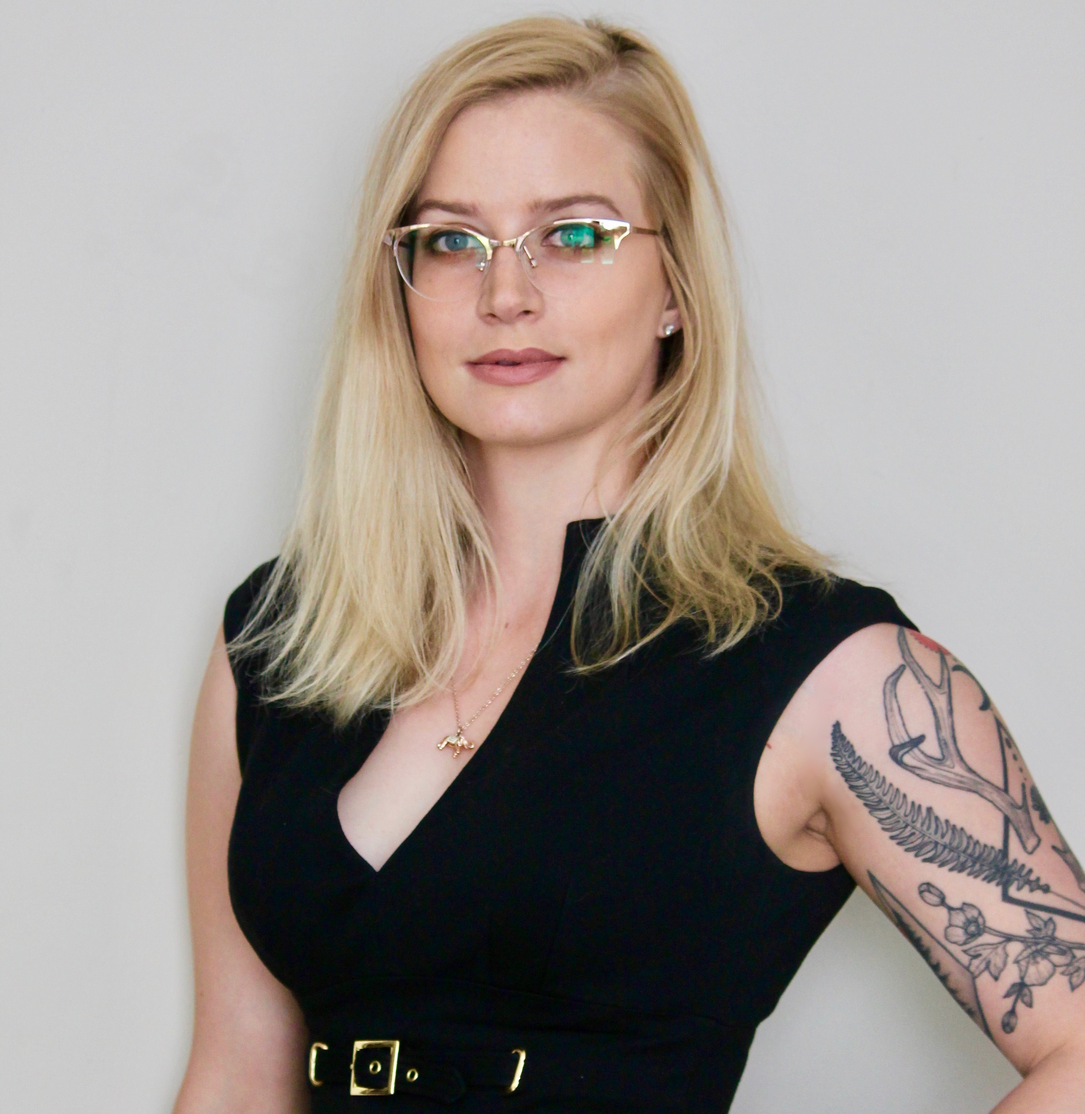
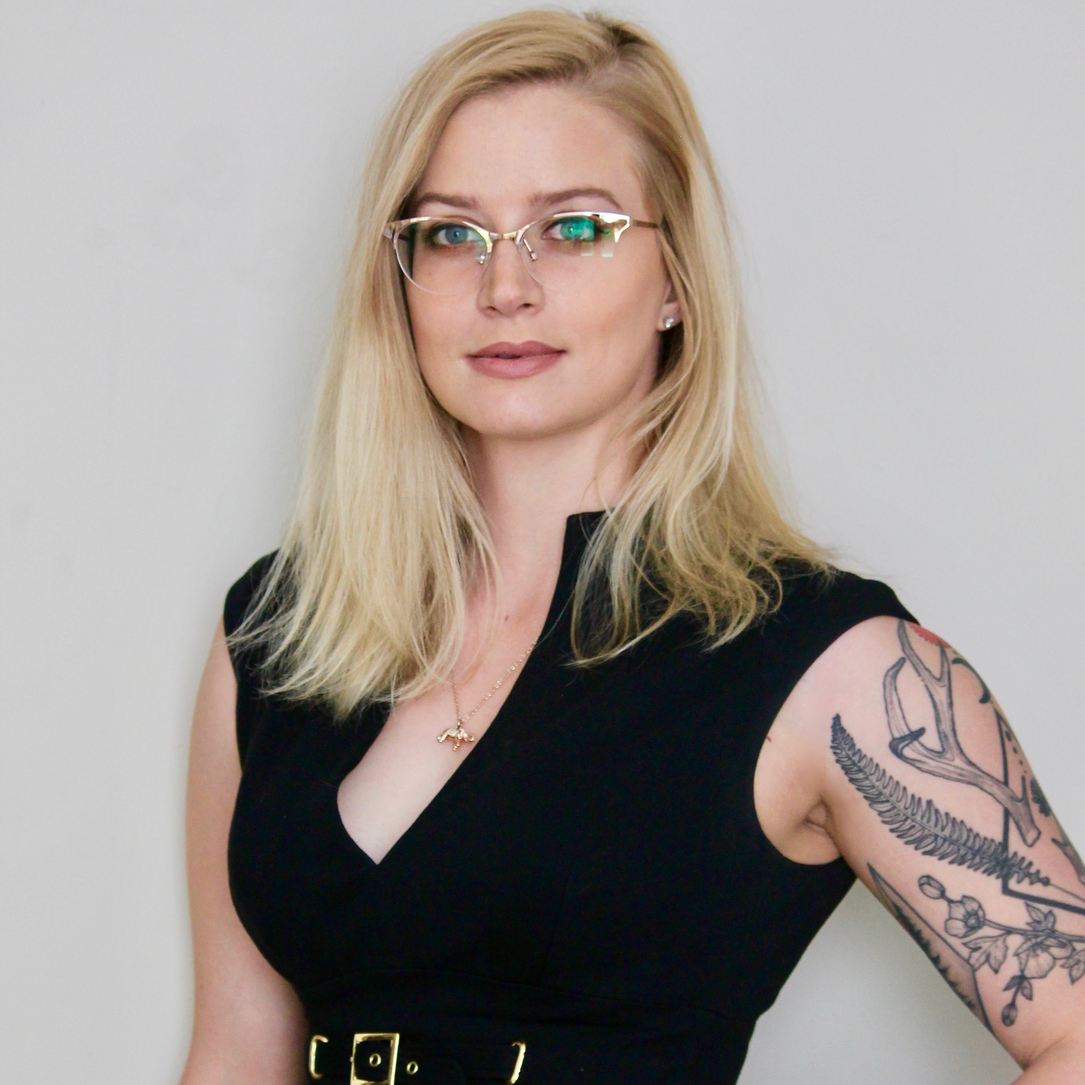
updated cav headshots

diff --git a/cav.html b/cav.html
@@ -140,7 +140,7 @@
 											</div>
 											<div class="col-3 col-12-medium">
 												<center>
-													<img src="media/images/me.jpg" class="people" alt="" />
+													<img src="media/images/yanan.jpg" class="people" alt="" />
 													<a href="https://emilywall.github.io"><h3>Yanan Da</h3></a>
 													<p>
 														<b>Ph.D. Candidate</b><br>

diff --git a/assets/css/main.css b/assets/css/main.css
@@ -168,6 +168,7 @@ body {
   max-width: 100%;
   max-height: 100%;
   width: 80%;
+  height: 80%;
   border-radius: 50%;
  }
 
